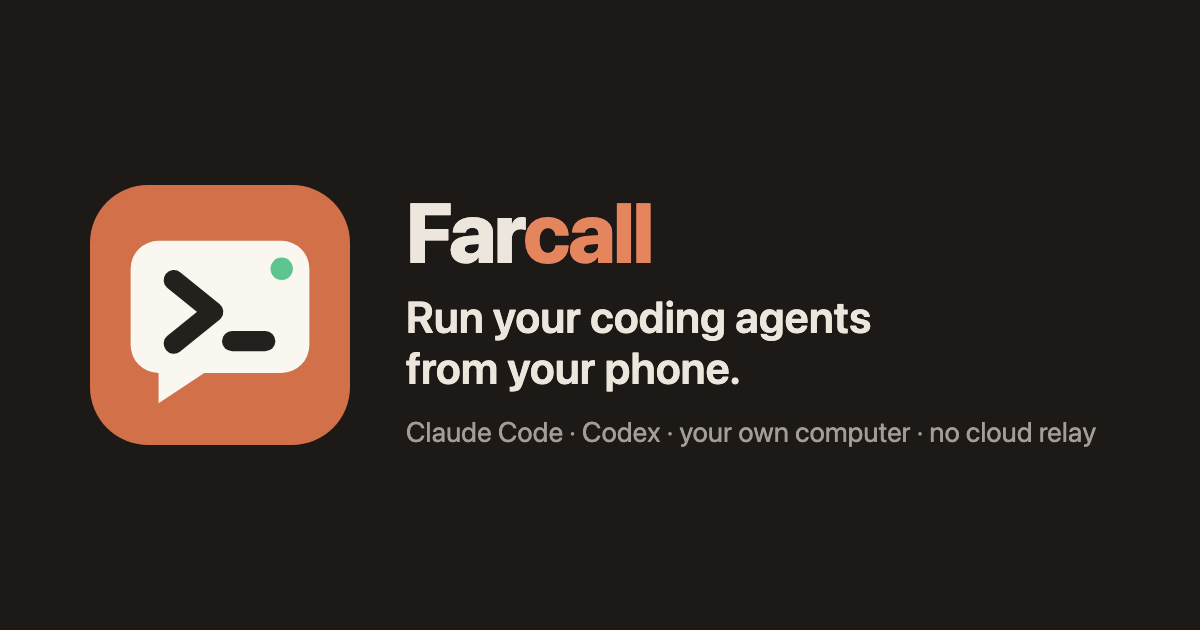
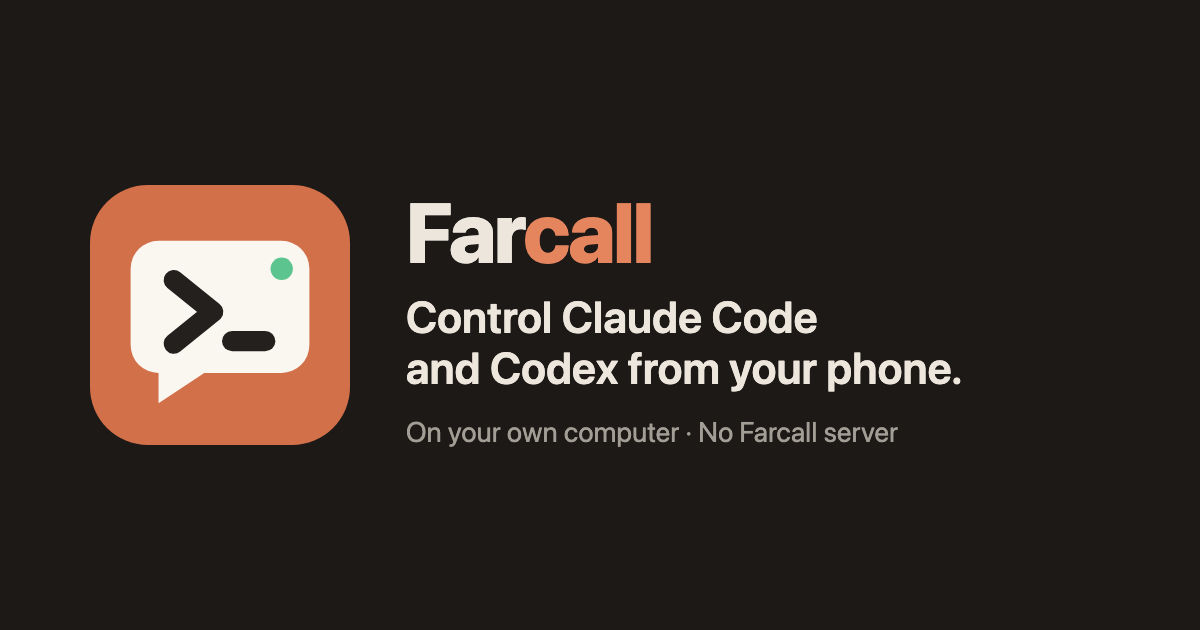
Accurate network claims: 'no Farcall server, end-to-end encrypted over your Tailscale network' instead of 'no cloud relay' / 'P2P' (Tailscale relays encrypted traffic when a direct path fails); social card and diagram follow

Changed region(s): [[0.3392, 0.4825, 0.8017, 0.6333], [0.3392, 0.6635, 0.925, 0.7238]]

diff --git a/index.html b/index.html
@@ -4,9 +4,9 @@
 <meta charset="utf-8">
 <meta name="viewport" content="width=device-width, initial-scale=1">
 <title>Farcall: control Claude Code and Codex from your Android phone</title>
-<meta name="description" content="Control Claude Code and Codex from your Android phone. They run on your own Mac, Windows or Linux computer; you chat, watch replies stream and approve every command. Claude, GLM, Kimi or Gemini. No cloud relay.">
+<meta name="description" content="Control Claude Code and Codex from your Android phone. They run on your own Mac, Windows or Linux computer; you chat, watch replies stream and approve every command. Claude, GLM, Kimi or Gemini. No Farcall server in between.">
 <meta property="og:title" content="Farcall: run your coding agents from your phone">
-<meta property="og:description" content="Every agent, your choice of model, your own computer, no cloud relay.">
+<meta property="og:description" content="Drive Claude Code and Codex on your own computer from one Android app. No Farcall server in between.">
 <link rel="canonical" href="https://farcall.app/">
 <link rel="icon" href="images/favicon.svg" type="image/svg+xml">
 <link rel="icon" href="images/favicon-32.png" sizes="32x32" type="image/png">
@@ -20,7 +20,7 @@
 <meta property="og:url" content="https://farcall.app/">
 <meta name="twitter:card" content="summary_large_image">
 <meta name="twitter:title" content="Farcall: run your coding agents from your phone">
-<meta name="twitter:description" content="Claude Code and Codex on your own computer, driven from your phone. No cloud relay.">
+<meta name="twitter:description" content="Claude Code and Codex on your own computer, driven from your phone. No Farcall server in between.">
 <meta name="twitter:image" content="https://farcall.app/images/social-card.png">
 <script type="application/ld+json">
 {"@context":"https://schema.org","@type":"SoftwareApplication","name":"Farcall","url":"https://farcall.app/",
@@ -682,7 +682,7 @@
   <div class="header-inner">
     <div class="brand-wrap">
       <div class="brand">Far<span>call</span></div>
-      <span class="status-pill">Private P2P · No Cloud Relay</span>
+      <span class="status-pill">No Farcall server · End-to-end encrypted</span>
     </div>
     <nav class="header-nav" aria-label="Page sections">
       <a href="#features">Features</a>
@@ -696,7 +696,7 @@
   <section class="hero">
     <div class="eyebrow">Android Remote for Local Coding Agents</div>
     <h1>Control Claude Code and Codex from your Android phone.</h1>
-    <p class="lead">They run on your own computer. You chat, watch the replies stream in, and approve every command before it runs. From anywhere, with no cloud relay.</p>
+    <p class="lead">They run on your own computer. You chat, watch the replies stream in, and approve every command before it runs. From anywhere, end-to-end encrypted over your own Tailscale network, with no Farcall server in between.</p>
 
     <div class="buttons">
       <a class="btn primary" href="https://github.com/eamon831/farcall-releases/releases/latest">

diff --git a/README.md b/README.md
@@ -1,6 +1,6 @@
 # Farcall
 
-**Control Claude Code and Codex from your Android phone.** They run on your own Mac, Windows or Linux computer; you chat with them, watch the replies stream in, and approve every command before it runs. From anywhere, with no cloud relay.
+**Control Claude Code and Codex from your Android phone.** They run on your own Mac, Windows or Linux computer; you chat with them, watch the replies stream in, and approve every command before it runs. From anywhere: end-to-end encrypted over your own Tailscale network, with no Farcall server in between.
 
 <p align="center">
   <picture><source media="(prefers-color-scheme: dark)" srcset="images/shot-phone-chat-dark.png"><img src="images/shot-phone-chat-light.png" alt="A chat: the agent explains the bug, edits the file, and asks before running npm test (Allow / Deny)" width="260"></picture>
@@ -15,10 +15,10 @@
 
 ## How is it different?
 
-Remote apps for coding agents usually tie you to one agent, one account, or a cloud relay that sees your session. Farcall:
+Remote apps for coding agents usually tie you to one agent, one account, or a company server that sits in your session. Farcall:
 
 - **Works with any of your providers**, not one account: Claude, GLM, Kimi, Gemini (OpenRouter) and Codex, side by side.
-- **Has no relay.** Phone and computer talk directly over your Tailscale network; Farcall runs no server.
+- **Has no server of its own.** Phone and computer connect over your own Tailscale network, end-to-end encrypted. (When they cannot reach each other directly, Tailscale relays the encrypted traffic, which it cannot read.)
 - **Asks before every command**, with the request on your phone, not just a notification after the fact.
 - **Can put two or three agents in one chat** (a panel): they answer side by side and can discuss each other's answers.
 - **Updates your computer from your phone:** Settings › Update Farcall on that computer.
